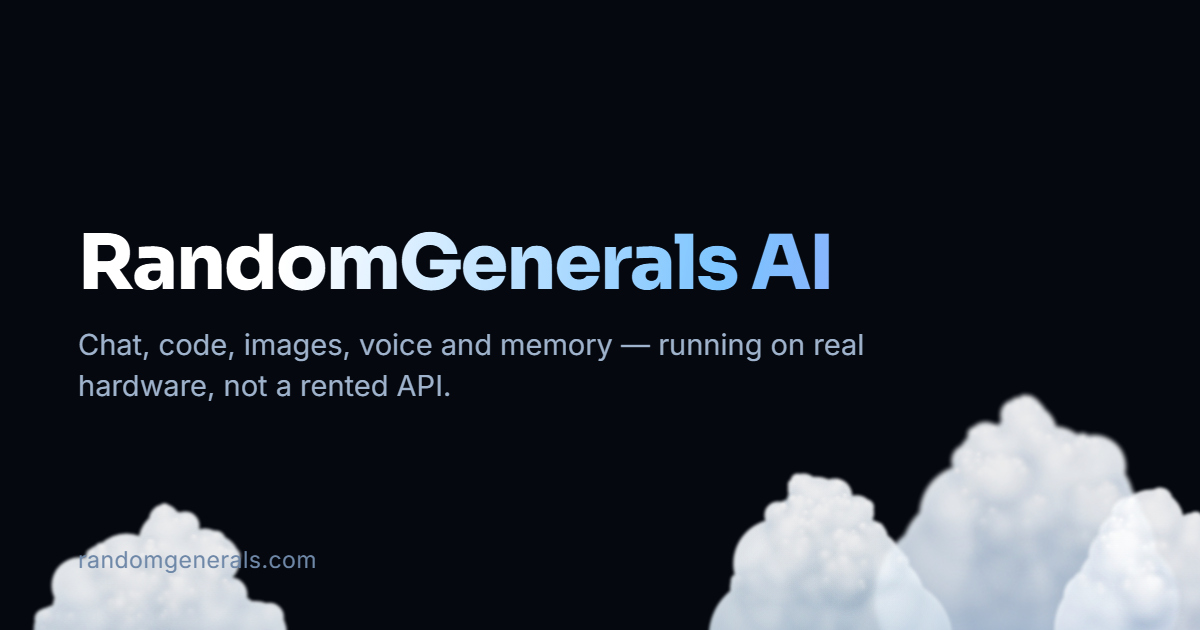
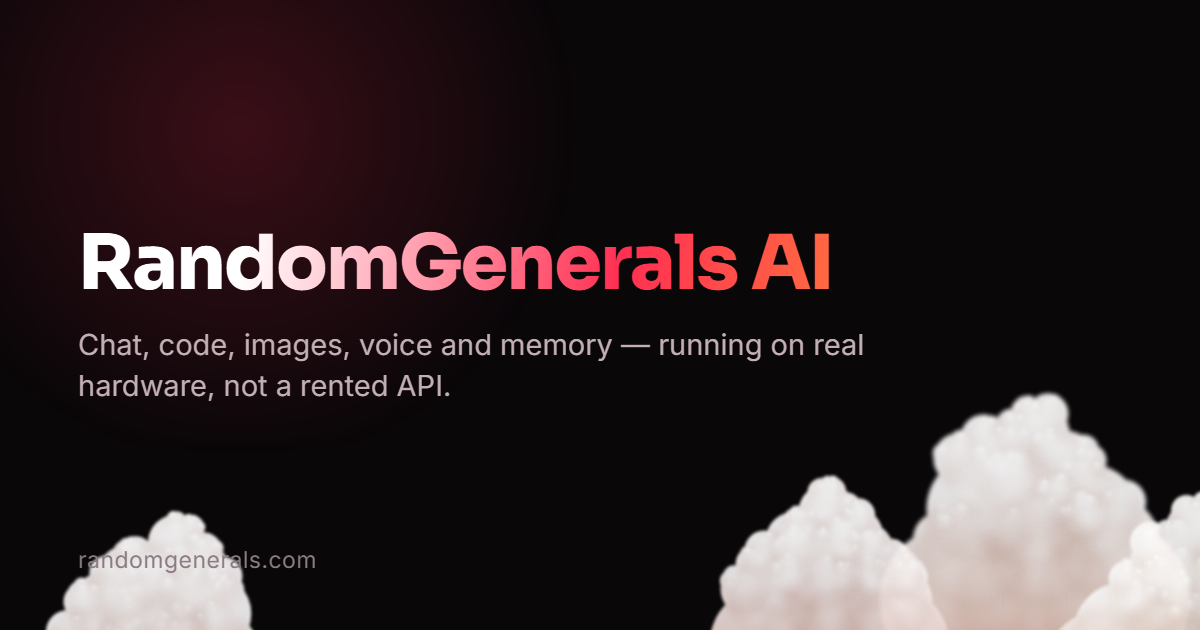
Retheme red, sunset hero included
Both stylesheets were already tokenized, so most of this is token work.
The parts that are not are the ones that would have given it away:

- Nine hardcoded rgba() accents that would have stayed cyan while
  everything around them turned red.
- The headline gradient ended on violet, a leftover from the cyan ramp
  that fought the two warm stops before it. Now crimson -> orange ->
  gold.
- The hero's cloud and moon hues drove blue-grey undersides under a red
  sky. Clouds now sit at 8-26 and moons at 30-44, so they still read as
  different objects rather than one warm smear.
- The ground is warmed a few degrees off neutral black. Pure blue-black
  under red accents reads as two unrelated palettes.

Provider colours deliberately do not join the red family - they encode
which engine answered, so they have to stay distinguishable. Groq's
coral was close enough to the new accent to be ambiguous and moves to
amber; Ollama's green was already unmistakable.

Social image and favicon regenerated from the same palette, the image
using the site's own cloud renderer so branding cannot drift.

Verified by screenshotting the landing page and the app rather than
trusting the tokens.

diff --git a/static/style.css b/static/style.css
@@ -23,52 +23,52 @@
      re-pointing them re-themes the app without touching the ~2400
      lines of component rules underneath. "sky" now means the dark
      ground the panels float on, not a blue daytime sky. */
-  --sky-top: #05080f;
-  --sky-mid: #080d18;
-  --sky-bottom: #0a1120;
+  --sky-top: #0a0709;
+  --sky-mid: #0f0b0f;
+  --sky-bottom: #140e14;
 
   /* Panels are now light-on-dark rather than white glass: a barely-lit
      surface that still reads as raised against the ground behind it. */
   --surface: rgba(255, 255, 255, 0.04);
   --surface-raised: rgba(255, 255, 255, 0.07);
-  --panel: rgba(17, 23, 37, 0.72);
-  --border: rgba(120, 160, 220, 0.12);
-  --border-strong: rgba(120, 200, 255, 0.22);
+  --panel: rgba(26, 19, 26, 0.74);
+  --border: rgba(255, 170, 180, 0.12);
+  --border-strong: rgba(255, 120, 140, 0.24);
 
-  --ink: #eaf1fb;
-  --ink-soft: #9fb1cc;
-  --ink-faint: #6b7c96;
+  --ink: #f6eef0;
+  --ink-soft: #c3b0b6;
+  --ink-faint: #8b7b84;
 
   /* Text sitting directly on the ground (topbar), not on a panel. The
      drop shadow that kept white text legible over a bright sky is
      pointless over a dark one - dropped rather than left as a smudge. */
-  --ink-on-sky: #eaf1fb;
-  --ink-on-sky-soft: rgba(234, 241, 251, 0.72);
+  --ink-on-sky: #f6eef0;
+  --ink-on-sky-soft: rgba(246, 238, 240, 0.72);
   --sky-text-shadow: none;
 
   /* Deck chrome fallback (= Code bay accent) */
-  --deck: #22d3ee;
-  --deck-soft: rgba(34, 211, 238, 0.16);
+  --deck: #ff2f52;
+  --deck-soft: rgba(255, 47, 82, 0.16);
 
   /* Bay accents — one per workspace. Shifted onto the landing page's
      cyan/blue/violet ramp so switching bays still reads as a change of
      temperature, but all three now belong to the same family. */
-  --bay-code: #22d3ee;
-  --bay-code-soft: rgba(34, 211, 238, 0.16);
-  --bay-chat: #38bdf8;
-  --bay-chat-soft: rgba(56, 189, 248, 0.16);
-  --bay-image: #a78bfa;
-  --bay-image-soft: rgba(167, 139, 250, 0.16);
+  --bay-code: #ff2f52;
+  --bay-code-soft: rgba(255, 47, 82, 0.16);
+  --bay-chat: #ff7a3d;
+  --bay-chat-soft: rgba(255, 122, 61, 0.16);
+  --bay-image: #ff5c8a;
+  --bay-image-soft: rgba(255, 92, 138, 0.16);
 
   /* Channel colors — one per provider, never blended */
   --c-ollama: #34d399;
   --c-ollama-soft: rgba(52, 211, 153, 0.14);
-  --c-groq: #f97362;
-  --c-groq-soft: rgba(249, 115, 98, 0.14);
+  --c-groq: #fbbf24;
+  --c-groq-soft: rgba(251, 191, 36, 0.14);
   --c-imagegen: #a78bfa;
   --c-imagegen-soft: rgba(167, 139, 250, 0.14);
 
-  --user-bubble: rgba(34, 211, 238, 0.1);
+  --user-bubble: rgba(255, 47, 82, 0.11);
   --error: #f2778d;
   --success: #34d399;
   --credit-low: #f2778d;
@@ -143,12 +143,12 @@ body {
   background-image:
     radial-gradient(
       1100px 480px at 12% -8%,
-      rgba(34, 211, 238, 0.1) 0%,
+      rgba(255, 47, 82, 0.11) 0%,
       transparent 62%
     ),
     radial-gradient(
       950px 440px at 92% -4%,
-      rgba(56, 189, 248, 0.08) 0%,
+      rgba(255, 122, 61, 0.08) 0%,
       transparent 60%
     ),
     linear-gradient(
@@ -214,12 +214,12 @@ html.time-night body {
   background:
     radial-gradient(
       32% 20% at 10% 18%,
-      rgba(56, 189, 248, 0.13),
+      rgba(255, 122, 61, 0.13),
       transparent 72%
     ),
     radial-gradient(
       26% 16% at 78% 10%,
-      rgba(34, 211, 238, 0.11),
+      rgba(255, 47, 82, 0.11),
       transparent 72%
     ),
     radial-gradient(

diff --git a/static/landing.css b/static/landing.css
@@ -13,20 +13,20 @@
    re-themed.
    ============================================================ */
 :root {
-  --ink-0: #05080f;
-  --ink-1: #0a0e17;
-  --ink-2: #111725;
-  --ink-3: #1a2233;
-  --line: rgba(120, 160, 220, 0.14);
-  --line-bright: rgba(120, 200, 255, 0.32);
+  --ink-0: #0a0709;
+  --ink-1: #110c11;
+  --ink-2: #1a131a;
+  --ink-3: #251c26;
+  --line: rgba(255, 170, 180, 0.13);
+  --line-bright: rgba(255, 120, 140, 0.34);
 
-  --text: #eaf1fb;
-  --text-soft: #9fb1cc;
-  --text-faint: #6b7c96;
+  --text: #f6eef0;
+  --text-soft: #c3b0b6;
+  --text-faint: #8b7b84;
 
-  --accent: #22d3ee;
-  --accent-2: #38bdf8;
-  --accent-glow: rgba(34, 211, 238, 0.22);
+  --accent: #ff2f52;
+  --accent-2: #ff7a3d;
+  --accent-glow: rgba(255, 47, 82, 0.24);
 
   --font-display: "Sora", sans-serif;
   --font-body: "Inter", sans-serif;
@@ -70,12 +70,12 @@ body {
   background:
     radial-gradient(
       620px 420px at 50% -8%,
-      rgba(34, 211, 238, 0.16),
+      rgba(255, 47, 82, 0.16),
       transparent 70%
     ),
     radial-gradient(
       520px 380px at 88% 8%,
-      rgba(56, 189, 248, 0.1),
+      rgba(255, 122, 61, 0.10),
       transparent 70%
     ),
     radial-gradient(
@@ -259,7 +259,7 @@ section {
   margin-bottom: 22px;
 }
 .grad {
-  background: linear-gradient(100deg, var(--accent), var(--accent-2) 55%, #a78bfa);
+  background: linear-gradient(100deg, var(--accent), var(--accent-2) 52%, #ffc46b);
   -webkit-background-clip: text;
   background-clip: text;
   color: transparent;
@@ -381,7 +381,7 @@ section {
 }
 .price-card-pro {
   border-color: var(--line-bright);
-  box-shadow: 0 0 0 1px rgba(34, 211, 238, 0.08), 0 20px 60px rgba(34, 211, 238, 0.08);
+  box-shadow: 0 0 0 1px rgba(255, 47, 82, 0.09), 0 20px 60px rgba(255, 47, 82, 0.09);
 }
 .price-badge {
   position: absolute;
@@ -496,7 +496,7 @@ section {
   border-bottom: 1px solid var(--line);
   background: radial-gradient(
     600px 200px at 50% 50%,
-    rgba(34, 211, 238, 0.08),
+    rgba(255, 47, 82, 0.09),
     transparent 70%
   );
 }
@@ -679,7 +679,7 @@ p {
 }
 .scroll-top:hover {
   transform: translateY(-2px);
-  background: rgba(34, 211, 238, 0.16);
+  background: rgba(255, 47, 82, 0.16);
 }
 
 /* ---- Hamburger + mobile drawer ---- */

diff --git a/static/hero-physics.js b/static/hero-physics.js
@@ -111,7 +111,13 @@
         // Clouds are fluffier than they are heavy; moons are dense. This
         // only affects how much they shove each other.
         mass: isMoon ? r * 1.6 : r * 0.7,
-        hue: isMoon ? rand(188, 200) : rand(198, 222),
+        // Warm hues, to match the red palette. These drive the shadowed
+        // side of a cloud and the body of a moon, so leaving them on the
+        // old cyan ramp put blue-grey undersides under a red sky - the
+        // one detail that makes a recoloured theme look recoloured.
+        // Clouds sit redder than the moons, which stay amber, so the two
+        // still read as different objects rather than one warm smear.
+        hue: isMoon ? rand(30, 44) : rand(8, 26),
         spin: rand(-0.003, 0.003),
         angle: rand(0, Math.PI * 2),
         drift: rand(0, Math.PI * 2),   // phase, for a gentle bob
